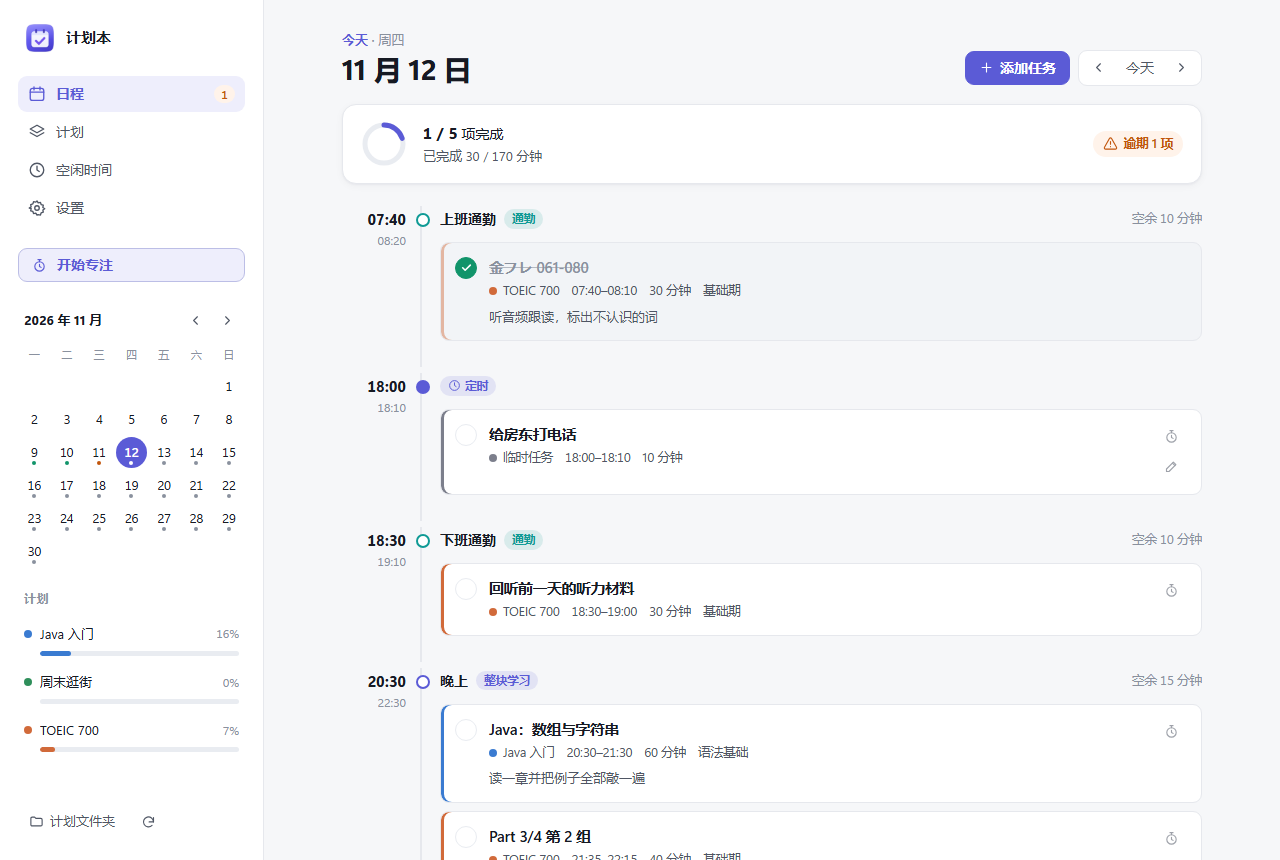
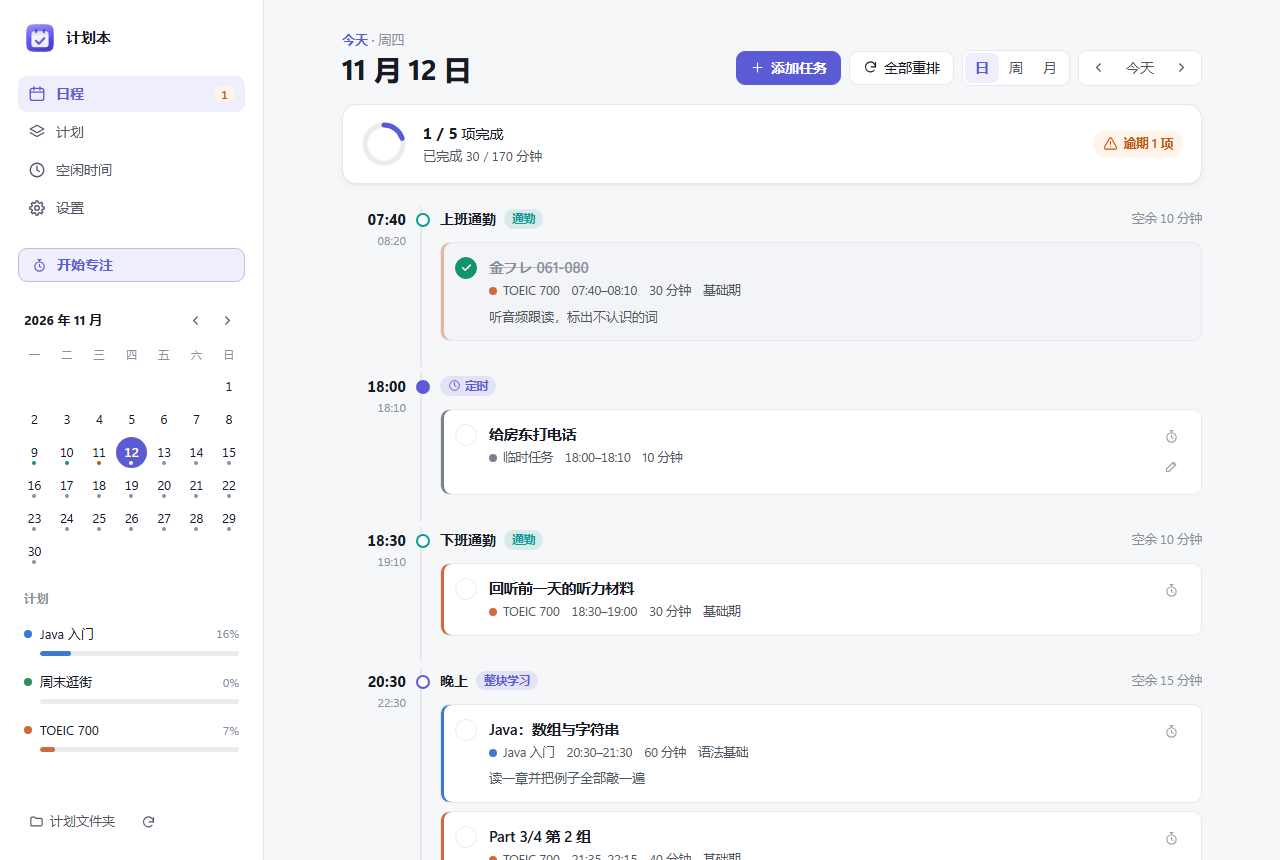
Update README screenshots for v0.3.0
Retake the day, plans and free-time screenshots and add one of the week view.
Dev mode accepts a span URL parameter so the week and month views can be captured.

Changed region(s): [[0.6875, 0.0605, 0.8438, 0.1209], [0.5625, 0.0605, 0.6562, 0.1209]]

diff --git a/web/app.js b/web/app.js
@@ -1765,6 +1765,7 @@ async function boot() {
   try {
     const params = new URLSearchParams(location.search);
     if (DEV && params.get('view')) S.view = params.get('view');
+    if (DEV && ['day', 'week', 'month'].includes(params.get('span'))) S.span = params.get('span');
     await refresh(DEV ? params.get('date') || undefined : undefined);
     if (DEV && params.get('dialog')) {
       const [kind, key, index] = params.get('dialog').split(':');
